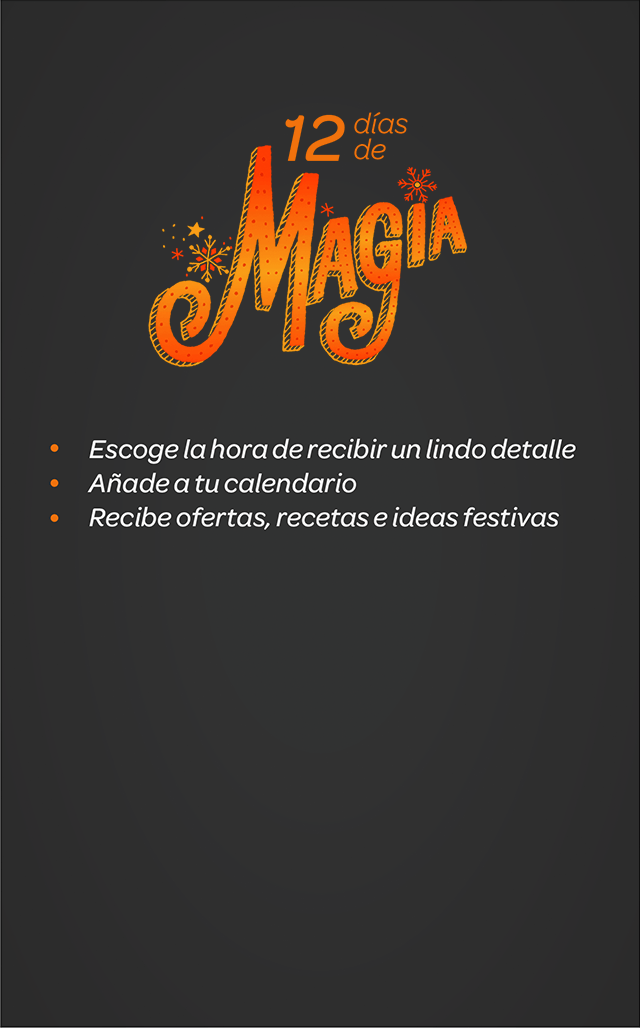
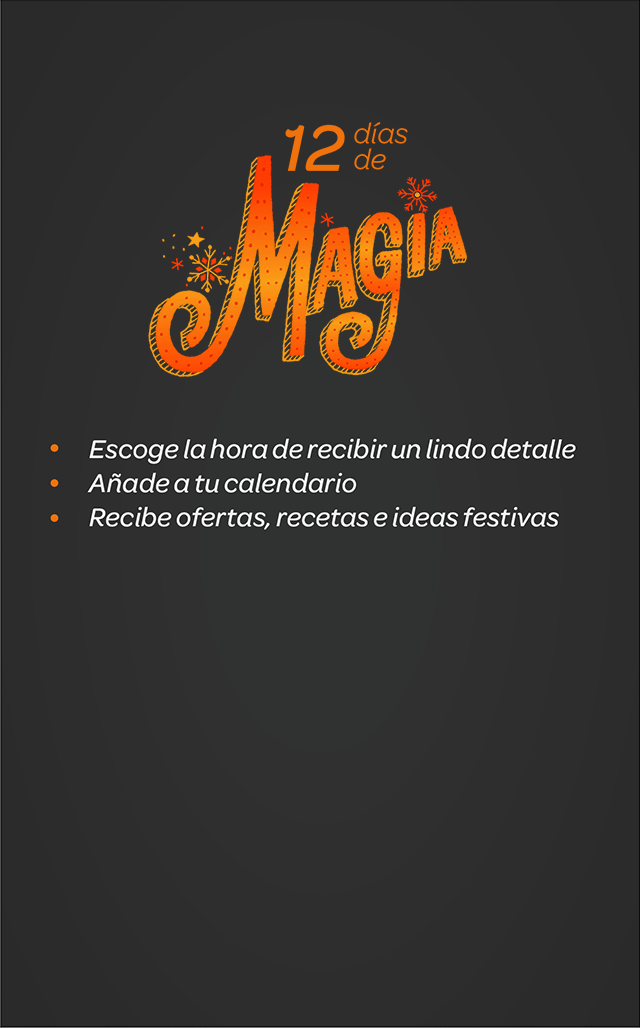
Arreglos Finales

Changed region(s): [[0.2188, 0.0934, 0.75, 0.3735]]

diff --git a/intro.php b/intro.php
@@ -1,6 +1,6 @@
 <div class="home container">
 	<div id="download">
-		<img src="img/background3.png" class="display">
+		<img src="img/background.png" class="display">
 
 		<div class="hours">
 			<label class="custom-select">
